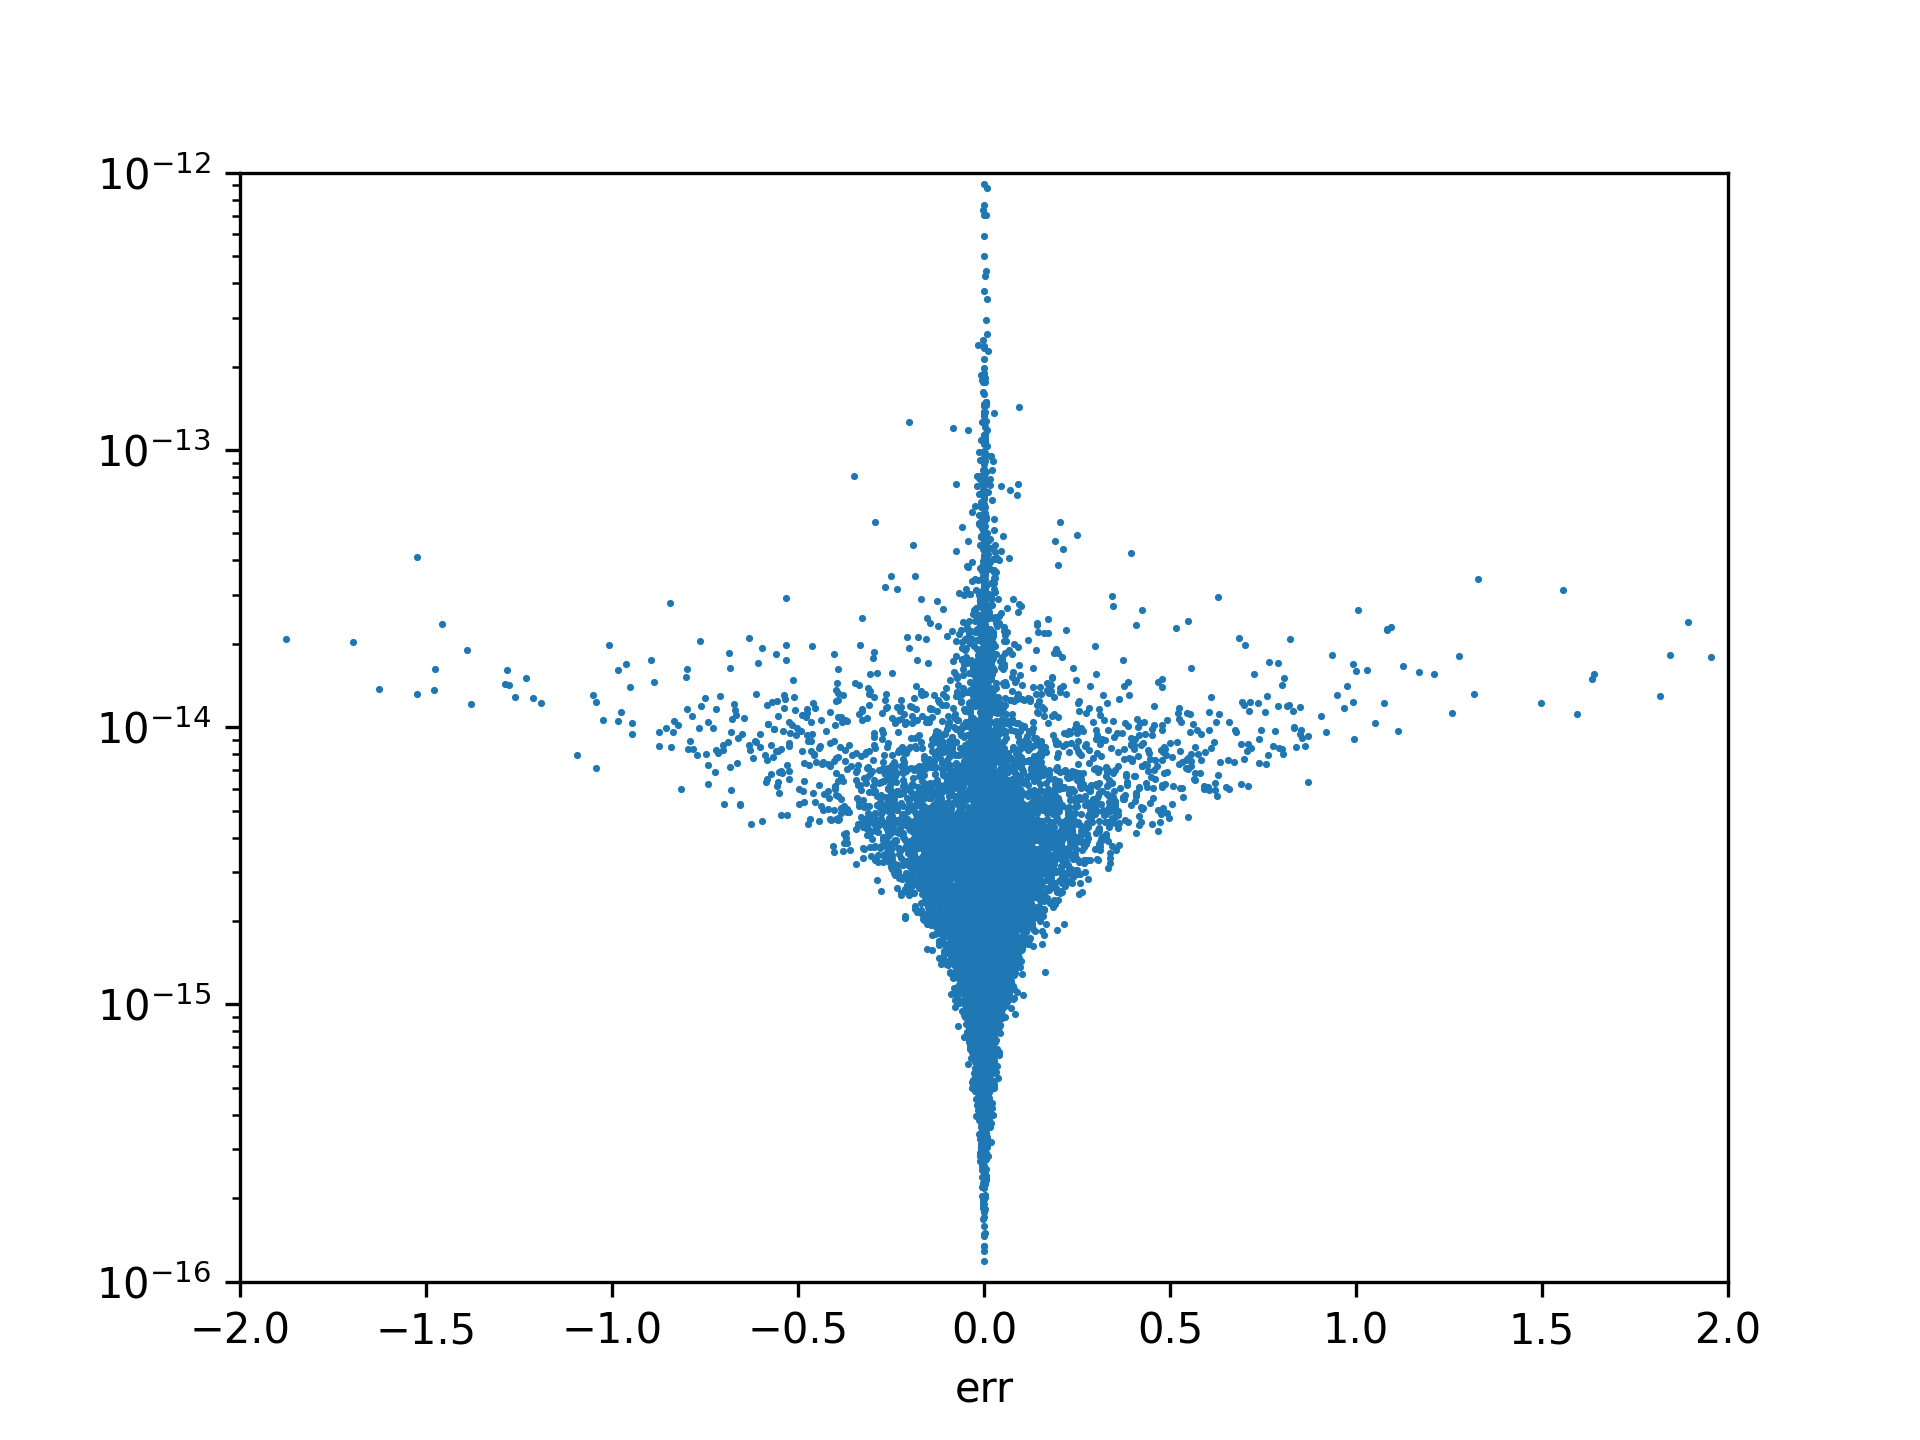
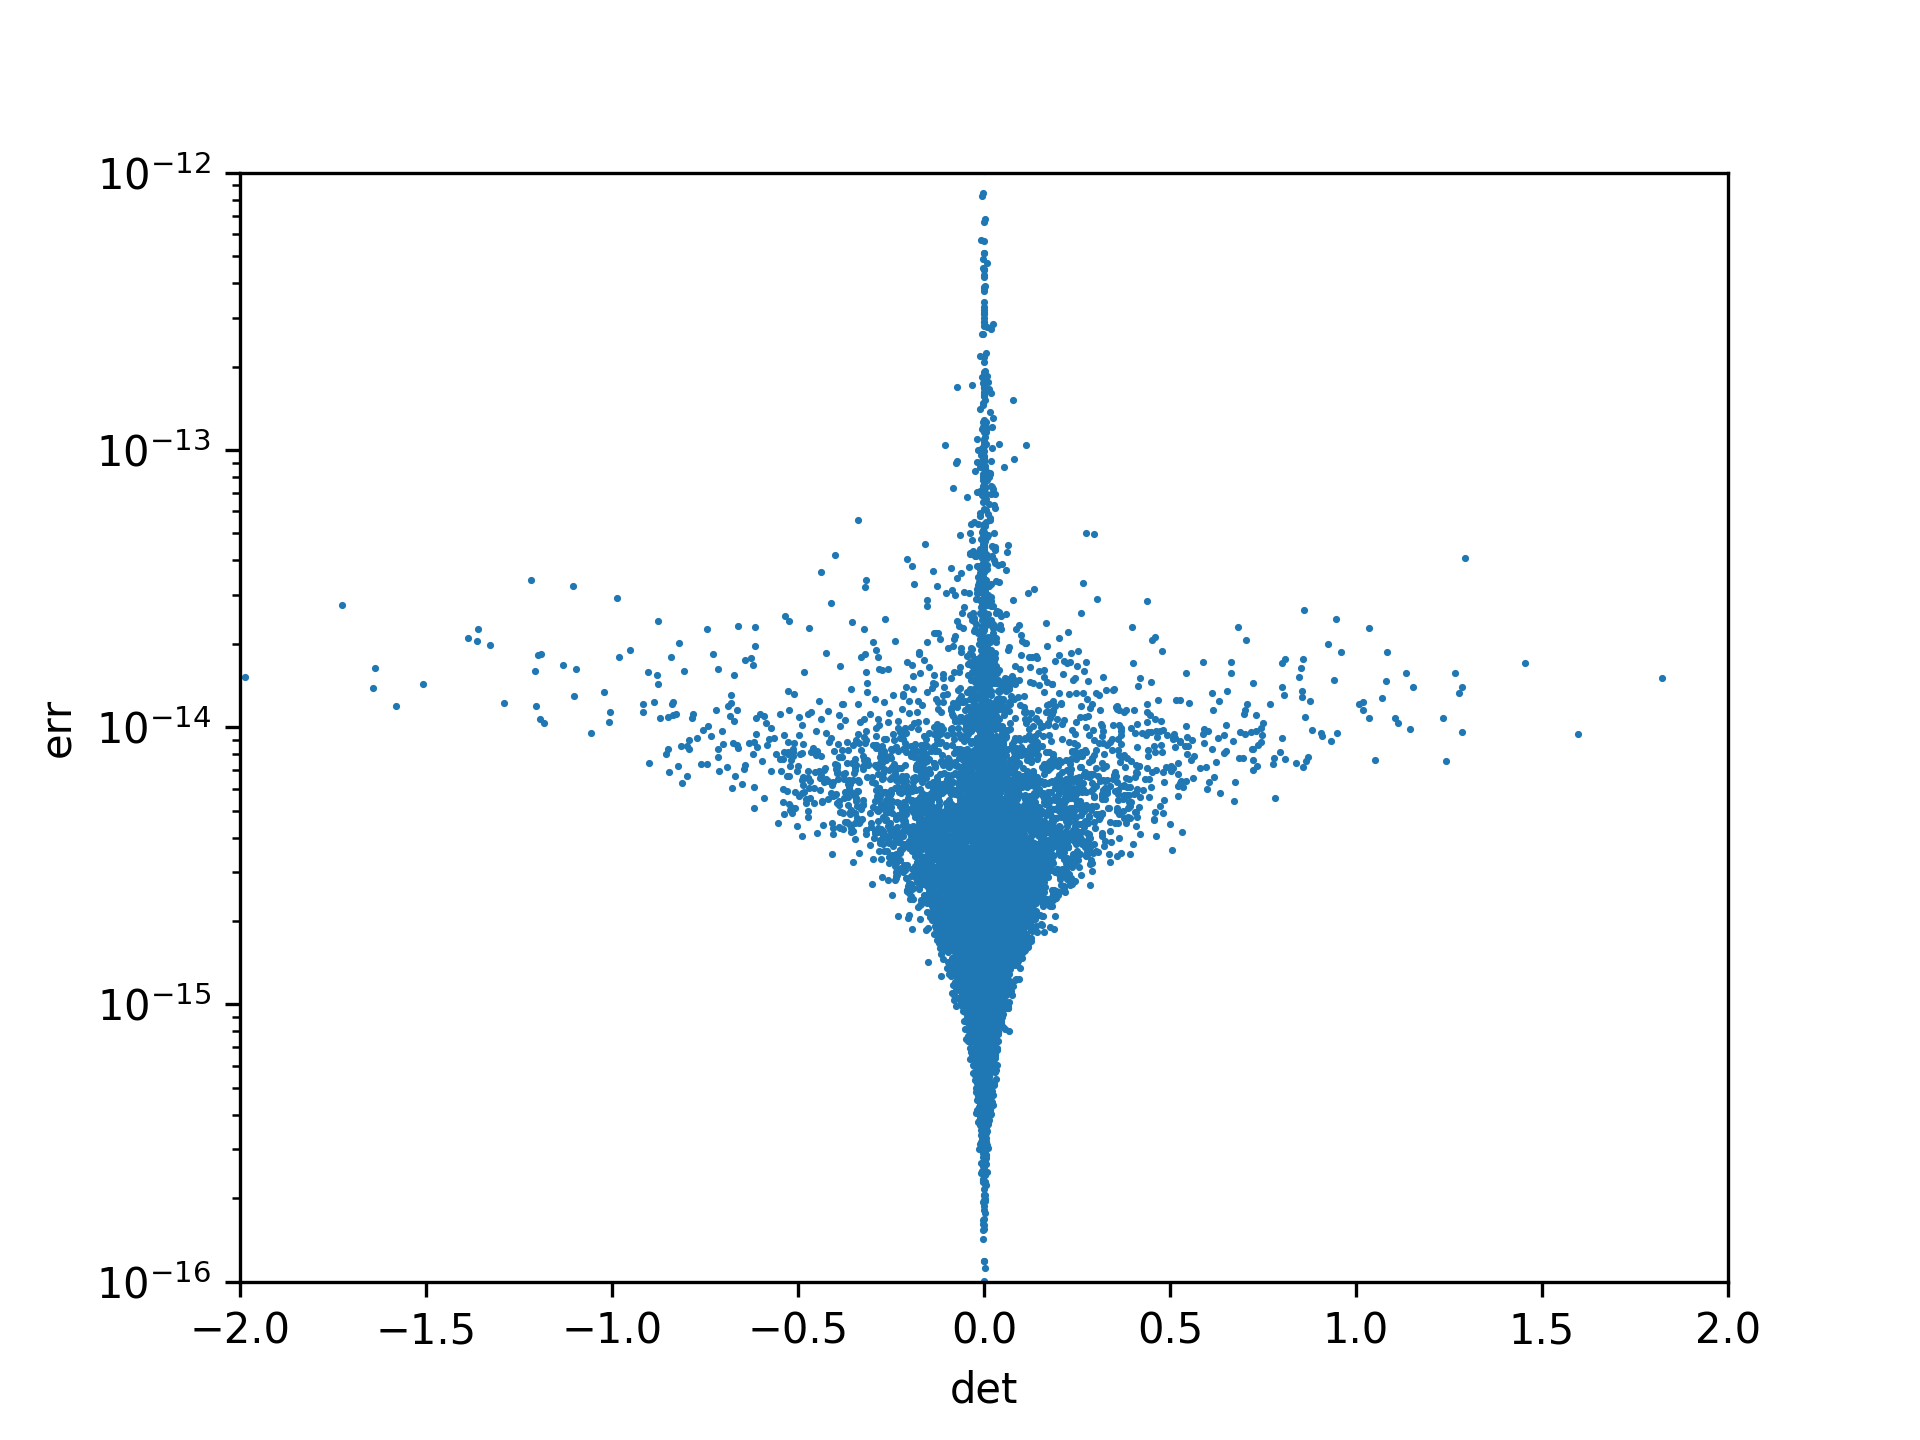
Fixed axis labels

diff --git a/setup.py b/setup.py
@@ -6,7 +6,7 @@ long_description = (this_directory / 'README.md').read_text()
 
 setup(
     name = 'adjugate',
-    version = '0.9.0',
+    version = '0.9.1',
     description = 'A package for calculating submatricies, minors, adjugate- and cofactor matricies.',
     long_description = long_description,
     long_description_content_type = 'text/markdown',

diff --git a/README.md b/README.md
@@ -128,7 +128,7 @@ ax.set_yscale('log')
 ax.set_xlim(-2, +2)
 ax.set_ylim(1e-16, 1e-12)
 ax.set_xlabel('det')
-ax.set_xlabel('err')
+ax.set_ylabel('err')
 plt.show()
 ```
 
